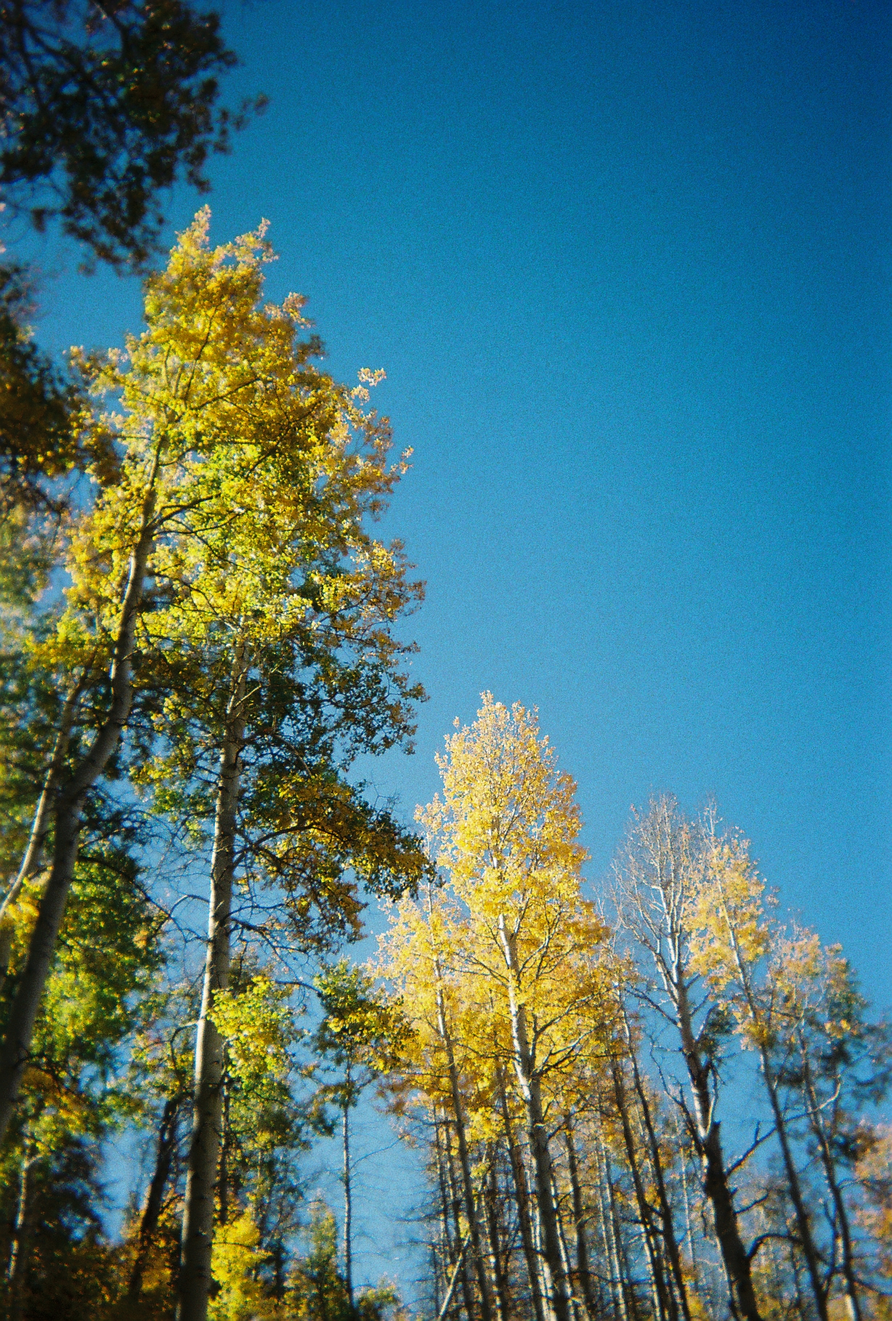
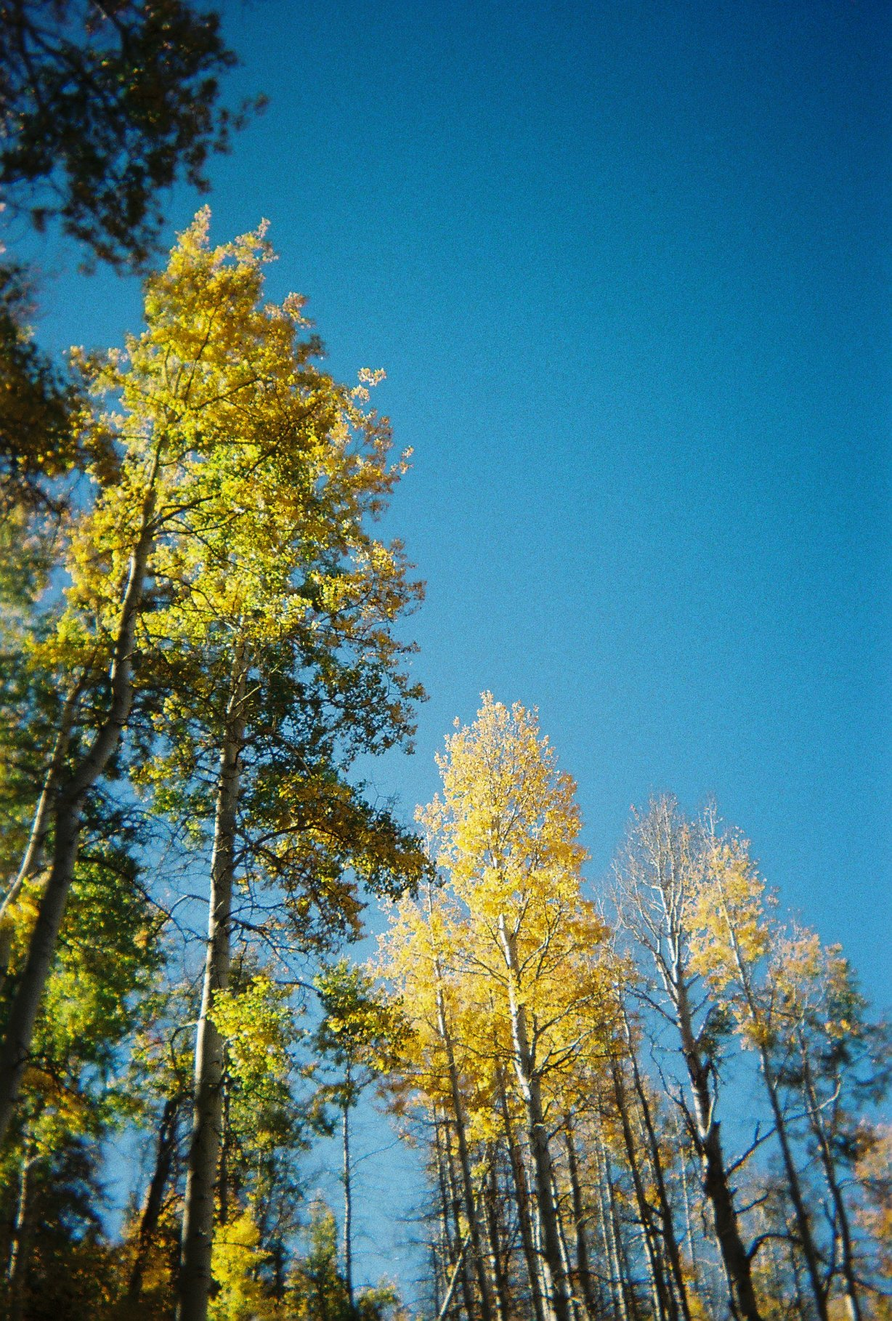
compressed images

diff --git a/pages/trips/bikepacking/tahoeRimTrail.html b/pages/trips/bikepacking/tahoeRimTrail.html
@@ -1,0 +1,73 @@
+<!DOCTYPE html>
+<html lang="en">
+  <head>
+    <meta charset="UTF-8">
+    <meta name="viewport" content="width=device-width, initial-scale=1.0">
+    <title>Matt Morrison</title>
+    <link rel="stylesheet" href="/styles/main.css">
+    <link href="https://fonts.googleapis.com/css?family=Lato" rel="stylesheet">
+  </head>
+  <body>
+    <header>
+      <h1 class="header-title"><a href="/index.html">Matt Morrison</a></h1>
+      <nav>
+        <ul>
+          <li><a class="header-link" href="/pages/creations.html">creations</a></li>
+          <li><a class="header-link" href="/pages/trips.html">trips</a></li>
+          <li><a class="header-link" href="/pages/writing.html">writing</a></li>
+        </ul>
+      </nav>
+    </header>
+    <main>
+      <div class="tripReport">
+        <h1 class="tripTitle">Tahoe Rim Trail</h1>  
+
+        <p><em>October 2022</em></p>
+
+        <p>After my bike’s shock snapped into sad little pieces on the Arizona Trail, John and I headed back to his place in Tahoe to regroup. John had taken a month off of work for us to ride the Arizona Trail, and we still had a week or so before he had to go back to the salt mines. I figured we might as well ride the Tahoe Rim Trail (TRT) as it seemed like a crime that John hadn’t yet done the whole thing even after living in the area for several years. Once my bike was operable again (thanks to Aaron for sending a new shock out my way), we set off for the TRT.</p>
+        
+        <p>This trip was novel in that we simply rolled out of John’s front door to start it off. Most big thru-hikes or bikepacking trips involve extremely complicated logistics, and so it was refreshing to do a multi-day ride involving no driving, easy resupplies every day, and plentiful water access throughout. The trail is extraordinarily well-marked and maintained by the finest trail stewards to ever walk the planet. The quality of trail was a welcomed relief after spending ten days bushwhacking our way through the remote deserts and highlands of Arizona. The TRT was practically a highway in comparison. In fact, some of the wilderness detours were highways!</p>        
+        
+        <p>We rolled out in the afternoon, and crushed a little over thirty miles of road riding to get up to Tahoe City. The miles and the hours flew by as we put down steady wattage along the well graded two-lane highway. We picked up a little food at the grocery store in town and then joined the Rim Trail proper. The climbing proved to be fun and engaging as it was consistently quite technical. As the sun set, we started scanning for good campsites. I had a hunch that a plateau I spotted just above us would offer flat campsites and great views. My suspicion was confirmed when I checked the area out, and we happily set up camp and knocked out for the night.</p>
+        
+        <figure>
+            <img src="/image//img1.jpg" alt="Image 1">
+            <figcaption><em> Views from the summit</em></figcaption>
+          </figure>
+
+        <figure>
+            <img src="/image/waucoba/img2.jpg" alt="Image 1">
+            <figcaption><em> A very dry approach</em></figcaption>
+          </figure>
+        
+        <figure>
+            <img src="/image/waucoba/img3.jpg" alt="Image 1">
+            <figcaption><em>The snow-capped Sierra</em></figcaption>
+          </figure>
+
+        <p>I was climbing in Bishop that morning, so I didn&rsquo;t get down south to start the route until around noon. I parked my car just a few miles east of Independence, not wanting to risk driving my new whip (a 2003 Toyota Sienna, that replaced my 1999 Toyota Sienna) on rough dirt roads. This meant that I had about twenty-five miles to hike each way in order to complete the route. After eating a quick lunch and haphazardly packing my backpack (I almost forgot to bring my sleeping bag), I was off around one in the afternoon. I had about fifteen miles and five thousand feet of climbing to do before sunset, so I hiked at a good clip and didn&rsquo;t take any breaks. I really enjoyed the fact that most of this route was on old dirt roads; it allowed me to zone out, let my mind wander, and simply take in my surroundings. I had about six liters of water in tow, since there was none on this route, despite me lauding the plethora of water in the Inyos.</p>
+        
+        <p>I took a wrong turn at some point, and so I had to scramble up a scree field to make it to Badger Flat, my destination for the day. I arrived right at sunset, perfect timing. Unlike my last trip a few days before this one, I decided to bring a tent and one sleeping bag, instead of no tent and two sleeping bags. This new strategy proved superior, and I was extraordinarily warm all night. I slept soundly for nearly twelve hours, waking up around six in the morning, at first light.</p>
+        
+        <figure>
+            <img src="/image/waucoba/img4.jpg" alt="Image 1">
+            <figcaption><em>Tamarack Canyon</em></figcaption>
+          </figure>
+
+          <figure>
+            <img src="/image/waucoba/img5.jpg" alt="Image 1">
+            <figcaption><em>The broad summit of Waucoba</em></figcaption>
+          </figure>
+
+        <p>Upon entering Tamarack Canyon, I realized the day would be snowier than I had planned. The canyon was full of snow, due to its steep slopes that blocked the sun for a large part of the day. I trudged on about twelve inches of powder, and eventually made it to the OHV trails that would lead to the summit. These roads were even snowier than the canyon, making for slow travel. On top of this, eerie clouds filled the sky above, and I was worried that it would start snowing. I kept a quick pace, anxious about the weather. Eventually I made it to the summit ridge, which was largely snow-free due to its lack of vegetation and exposure to the sun for most of the day. The ridge was much longer than expected, and false summit after false summit eventually led to the true peak. Beautiful views of Death Valley stretched to my east, White Mountain towered over me to the north, and the Sierra greeted me to the west. I took in the spectacular views, ate some cheese, signed the summit register, and started descending. My freezing cold feet kept me from enjoying the summit for too long.</p>
+        
+        <figure>
+            <img src="/image/waucoba/img6.jpg" alt="Image 1">
+            <figcaption><em>Winter has arrived in the Inyos</em></figcaption>
+          </figure>
+
+        <p>The walk down was uneventful, but quite pretty. By the time I hit the main dirt road, the skies had cleared a bit, and the mindless tramping ensued. Several pleasant hours later, I found myself at the van. I made a large pot of pasta, scarfed it down, and slept soundly once again. Another successful mission in the Inyos.</p>
+      </div>
+    </main>
+  </body>
+</html>

diff --git a/pythonTools/imgCompress.py b/pythonTools/imgCompress.py
@@ -1,10 +1,20 @@
-from PIL import Image
 import os
+from PIL import Image
+def compress_images(directory=None, quality=85):
+    if directory is None:
+        directory = os.getcwd()
+    for filename in os.listdir(directory):
+        if filename.casefold().endswith(".jpg") or filename.casefold().endswith(".jpeg"):
+            filepath = os.path.join(directory, filename)
+            with Image.open(filepath) as im:
+                im.save(filepath, optimize=True, quality=quality)
+                # # Check if the file size decreased after compression
+                # if os.path.getsize(filepath) < os.path.getsize(filepath[:-4] + '_original.jpg'):
+                #     os.remove(filepath[:-4] + '_original.jpg')
+                #     return True
+                # else:
+                #     os.remove(filepath)
+                #     return False
+    return True # Return True if no images were found in the directory
 
-directory = "/Users/mattmorrison/Documents/repos/mcharlesmorrison.github.io/image/trt"
-
-for filename in os.listdir(directory):
-    if filename.endswith(".jpg"):
-        filepath = os.path.join(directory, filename)
-        with Image.open(filepath) as img:
-            img.save(filepath, optimize=True, quality=85)
+print(compress_images("/Users/mattmorrison/Documents/repos/mcharlesmorrison.github.io/image/trt"))
